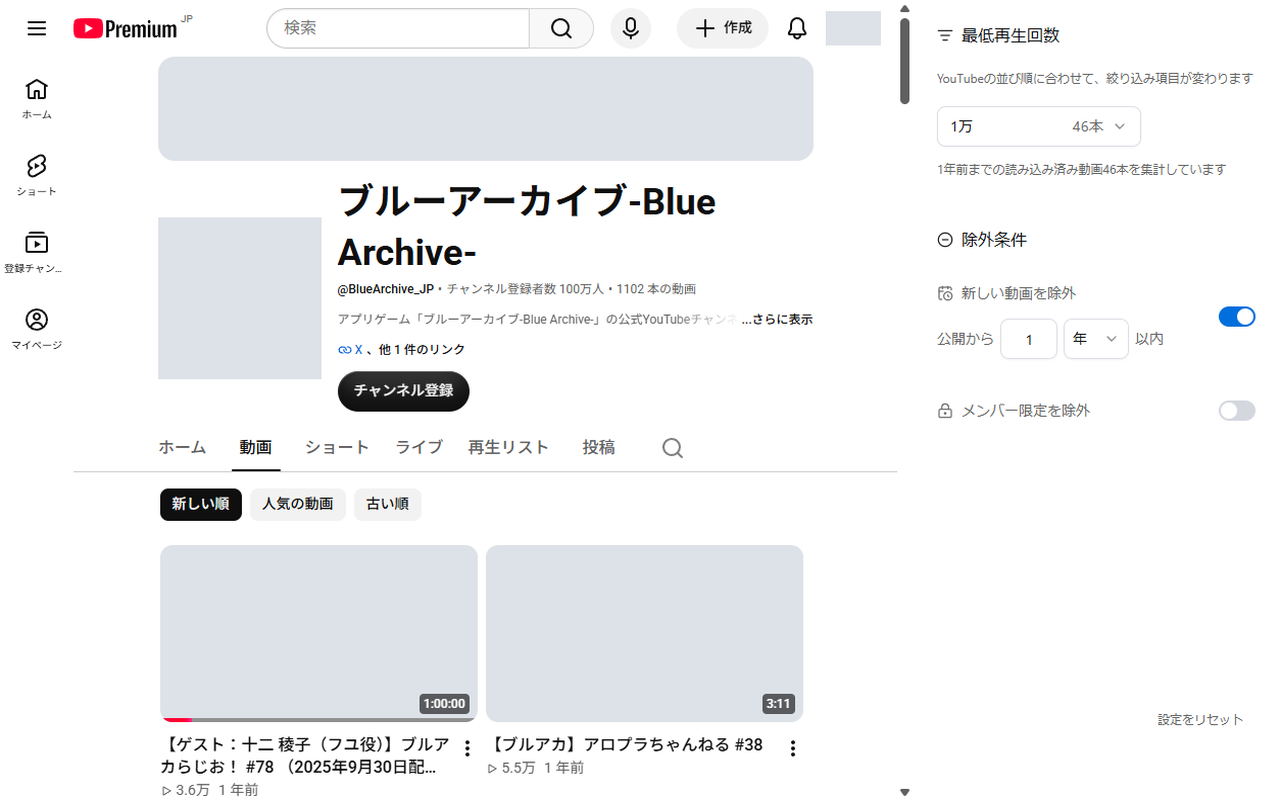
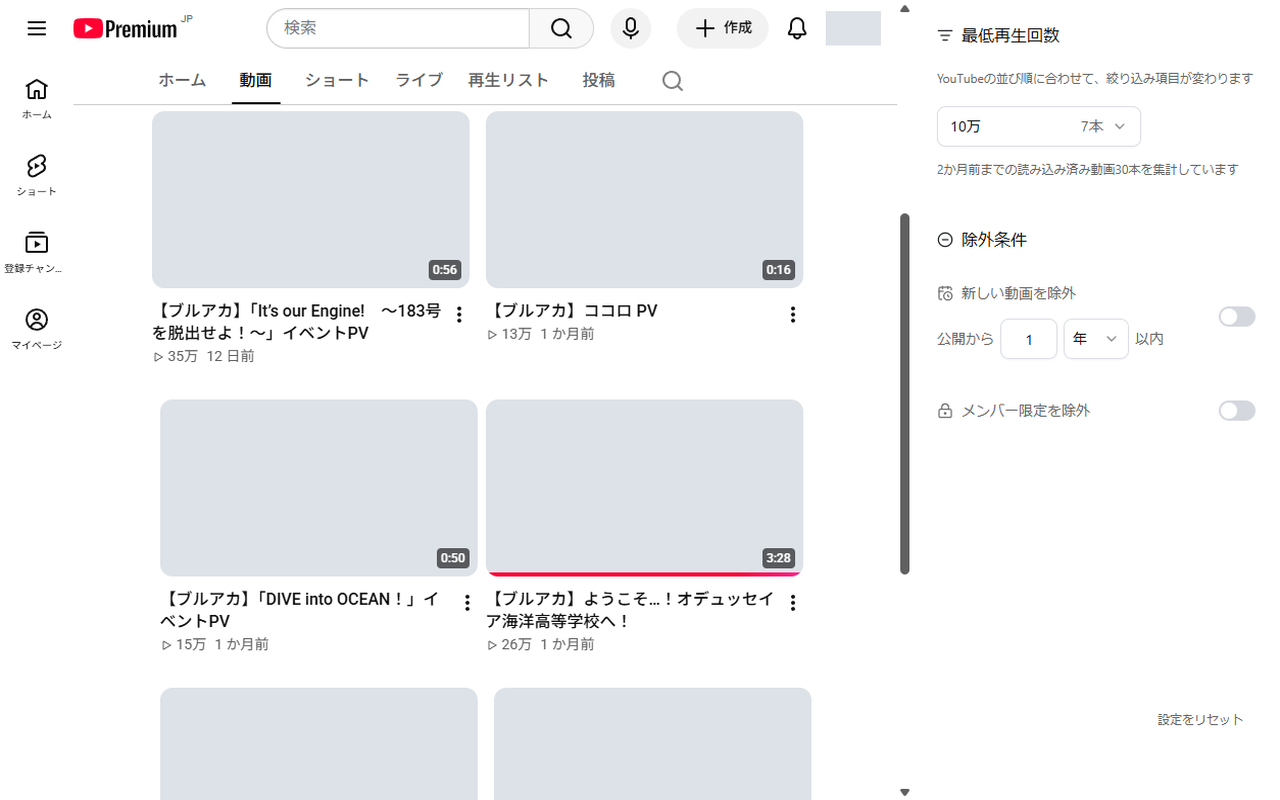
絞り込み前後と投稿情報が伝わる掲載画像に更新する

diff --git a/store-assets/screenshots/README.md b/store-assets/screenshots/README.md
@@ -1,14 +1,18 @@
 # 掲載用スクリーンショット
 
-2026年10月3日に開発用 Chrome の実ページと、実際に開いた Sift サイドパネルを CDP で撮影した。サイトとパネルの描画領域を別々に取得し、横に並べて1280×800ピクセルの PNG に整えた。画面や投稿を生成・差し替えたものではない。
+2026年10月4日に開発用 Chrome の実ページと、実際に開いた Sift サイドパネルを CDP で撮影した。サイトとパネルの描画領域を別々に取得し、横に並べて1280×800ピクセルの PNG に整えた。画面や投稿を生成・差し替えたものではない。
 
 ## 現在の日本語掲載画像
 
-- [X の固定リスト「オタク」](sift-x-ja.png)
-- [YouTube のブルーアーカイブ公式チャンネル](sift-youtube-ja.png)
+| 対象 | 絞り込み前 | 絞り込み後 | 確認した変化 |
+| --- | --- | --- | --- |
+| X の固定リスト「オタク」 | [指定なし](sift-x-before-ja.png) | [最低いいね数500](sift-x-ja.png) | 331いいねの投稿が消え、762いいねの投稿が残る |
+| YouTube のブルーアーカイブ公式チャンネル | [指定なし](sift-youtube-before-ja.png) | [最低再生回数10万](sift-youtube-ja.png) | 4.1万・6.5万・9.8万回などの動画が消え、13万・15万・26万・35万回の動画が残る |
 
-撮影時だけ一時的な CSS を適用し、投稿者のアイコン、投稿画像・動画、サムネイル、チャンネルのバナー・アイコン、ログインユーザーのアカウント表示を不透明なグレーで覆った。名前、本文、動画タイトル、反応数・再生数、日時、Sift の操作欄は残している。投稿の追加や本文の置換は行っていない。
+前後で同じリスト・チャンネルを使い、条件による非表示理由も実ページで確認した。数値は撮影時点のもの。読み込み済み件数はスクロールに伴って増えるため、前後の件数だけから除外数を判断しない。
 
-撮影後は対象タブを閉じ、拡張機能の設定を復元した。加工は描画領域の結合とサイズ調整のみで、画像生成 AI は使っていない。
+撮影時だけ一時的な CSS を適用し、投稿者のアイコン、投稿画像・動画、リンク先の画像、サムネイル、チャンネルのバナー・アイコン、ログインユーザーのアカウント表示を不透明なグレーで覆った。名前、本文、動画タイトル、反応数・再生数、日時、Sift の操作欄は残している。投稿の追加や本文の置換は行っていない。
 
-1280×800は[Chrome ウェブストアの掲載画像仕様](https://developer.chrome.com/docs/webstore/images#screenshots)に合わせている。既存の `sift-overview-ja.png` と `sift-overview-en.png` は以前の提出資料であり、今回の更新版では上記2枚を使う。
+画像を開いてマスク漏れと文字の読みやすさを確認した。撮影後は対象タブを閉じ、拡張機能の設定を復元した。加工は描画領域の結合とサイズ調整のみで、画像生成 AI は使っていない。
+
+1280×800は[Chrome ウェブストアの掲載画像仕様](https://developer.chrome.com/docs/webstore/images#screenshots)に合わせている。既存の `sift-overview-ja.png` と `sift-overview-en.png` は以前の提出資料であり、今回の更新版では上記4枚を使う。
